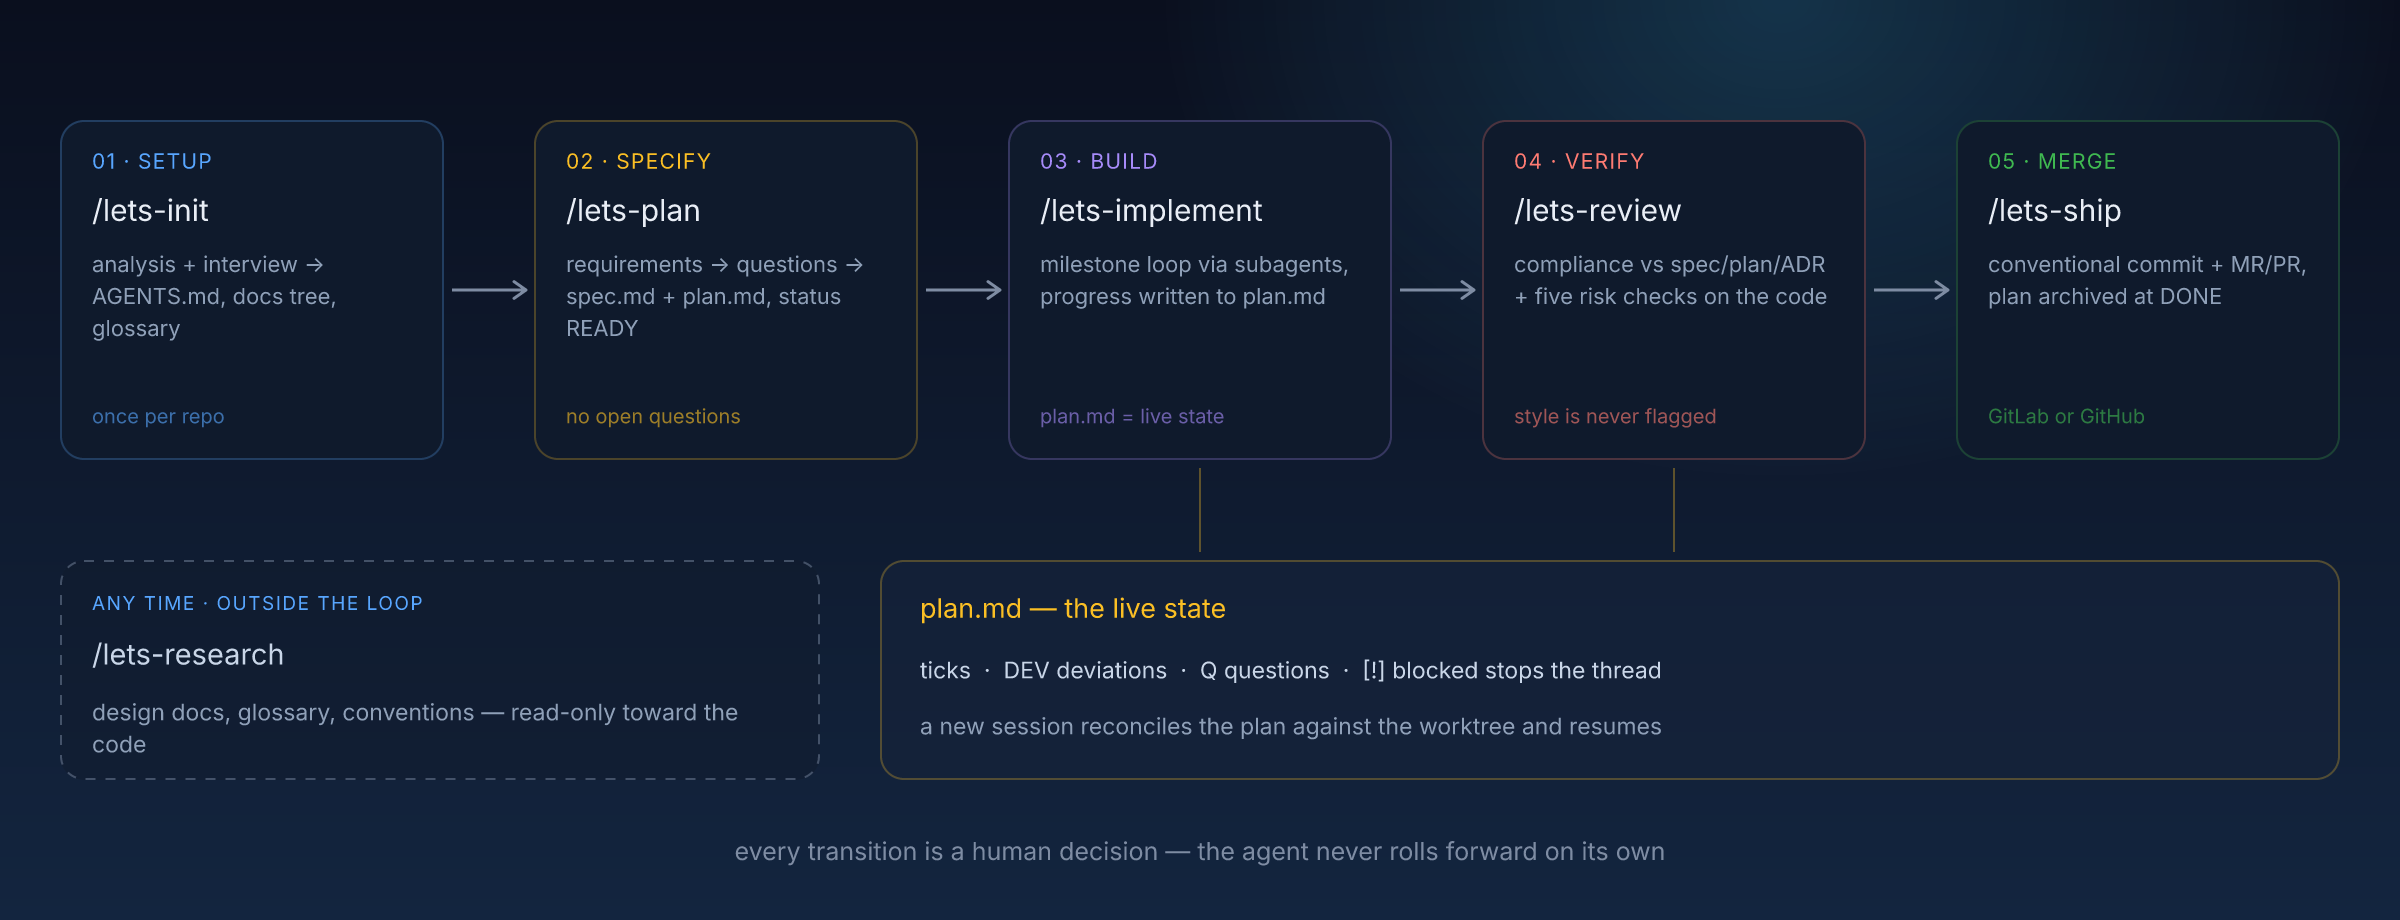
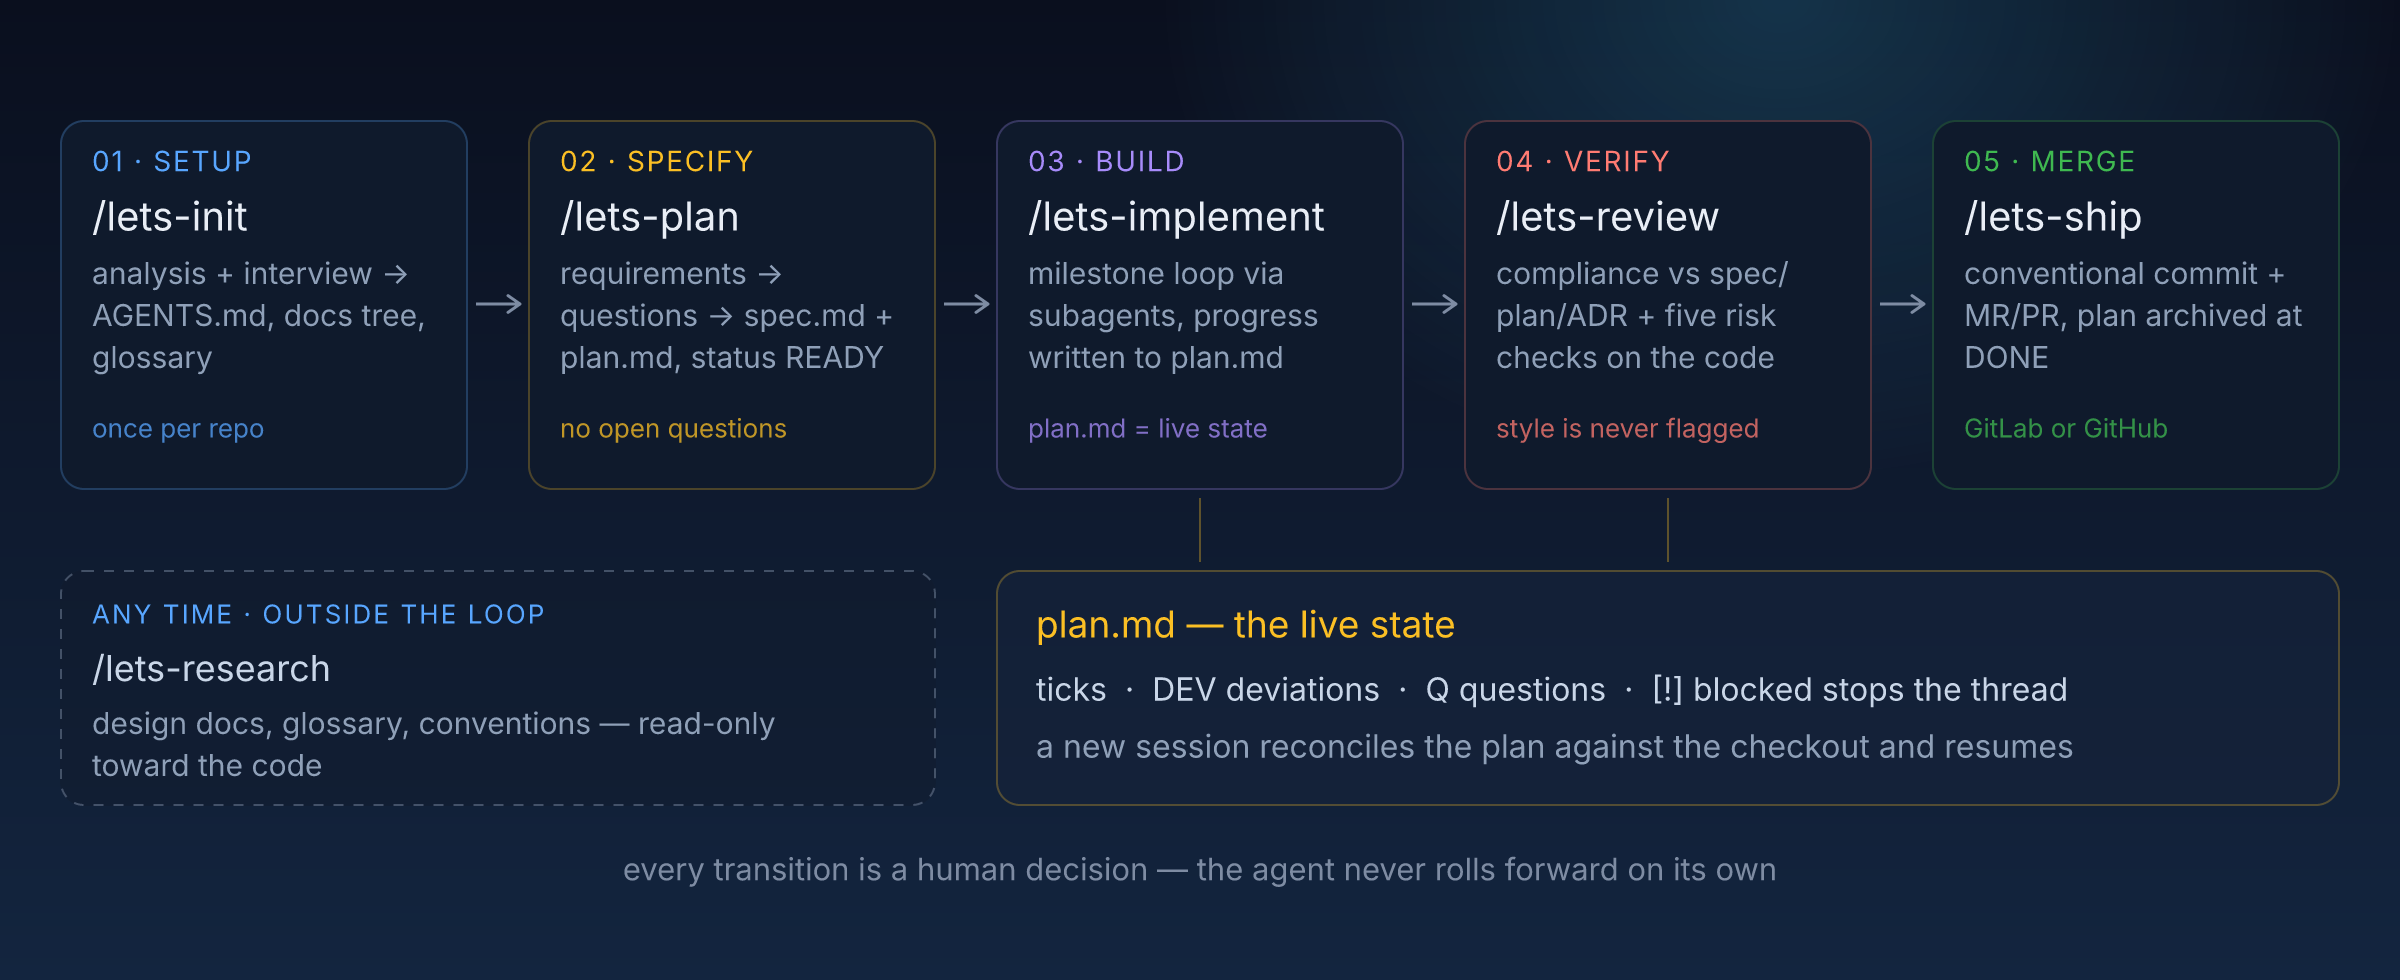
docs: rework the README into usage cards with a worktree section

diff --git a/README.md b/README.md
@@ -10,12 +10,12 @@ Six public skills: init, research, plan, implement, review, ship. Four service s
 
     npx skills add seropaski/lets-build
 
-Then run `/lets-init` once in the target repository. It analyzes the project, interviews you, and creates the AGENTS.md and docs/ tree that every other skill reads. If docs/ is already yours, `/lets-init --docs-dir lets-docs` puts the tree under another folder, and init asks on its own when it finds a docs/ with your files in it; the folder lands in AGENTS.md, so every skill reads it from there. You need git and an agent that supports skills and subagents. Claude Code reads CLAUDE.md rather than AGENTS.md, so init offers a one-line CLAUDE.md that imports it.
+Run `/lets-init` once in the target repository: it analyzes the project, interviews you, and creates the AGENTS.md and docs/ tree every other skill reads. If docs/ is already yours, `/lets-init --docs-dir lets-docs` puts the tree under another folder — init asks on its own when it finds a docs/ with your files in it, and the folder lands in AGENTS.md, so every skill reads it from there. You need git and an agent that supports skills and subagents. An agent that reads CLAUDE.md rather than AGENTS.md gets a one-line CLAUDE.md that imports it.
 
 ## The workflow
 
 <div align="center">
-  <img src="assets/workflow.png" alt="init → plan → implement → review → ship; research runs outside the loop; plan.md is the live state every session reconciles against the worktree" width="100%">
+  <img src="assets/workflow.png" alt="init → plan → implement → review → ship; research runs outside the loop; plan.md is the live state every session reconciles against the checkout" width="100%">
 </div>
 
 Every transition is a human decision: the agent never rolls from planning into coding, or from coding into committing. plan.md stays the live state — ticks, deviations, blockers — so any session continues where the last one stopped:
@@ -29,67 +29,72 @@ Every transition is a human decision: the agent never rolls from planning into c
 
     AGENTS.md                       how the agent works in this repo
     docs/
-      glossary/                     the domain model: _index.md maps the domains
-                                    and how they connect, one file per domain
-                                    holds its terms, their purpose and relations
-      conventions/                  per-area rules; _index.md says which paths each covers
+      glossary/                     the domain model, one file per domain
+      conventions/                  per-area rules; _index.md maps paths to rules
       design/                       what the system does today, one file per area
-      architecture/adr/             accepted decisions, with their reasons
-      architecture/rfcs/            decisions under discussion
+      architecture/                 ADRs accepted, RFCs under discussion
       plans/active/<id>-<slug>/     spec.md + plan.md of running tasks
       plans/completed/              archived at DONE
 
-The tree is closed: documentation exists only in these places, and only lets-init extends it. Every folder except plans/ has an `_index.md` table of contents, and skills start their lookups there instead of reading every file. The root is `docs` unless init put the tree elsewhere (`--docs-dir lets-docs`, or your answer when `docs` was already taken); AGENTS.md records the folder, and re-running init with a new `--docs-dir` moves the whole tree after your yes.
+The tree is closed: documentation exists only in these places, and only lets-init extends it. Every folder except plans/ keeps an `_index.md` table of contents, and skills start their lookups there. The root is `docs` unless init put the tree elsewhere (`--docs-dir`, or your answer when `docs/` was taken); AGENTS.md records the folder. The glossary and conventions are yours: every entry is proposed with its evidence and written only after you approve the exact text.
 
-The glossary and the conventions are yours. An agent proposes the exact text of every entry or rule, with its evidence, and writes it only after you approve that text. Subagents can't write there at all, and review flags any change that skipped your approval.
+## Two tasks at once
+
+<div align="center">
+  <img src="assets/worktrees.png" alt="One repository, several directories: the busy checkout keeps its plan and branch, each new task gets a worktree of its own, one .git shared" width="100%">
+</div>
+
+One checkout holds one plan. When a second task starts — or a hotfix lands mid-milestone — lets-implement offers a worktree of its own instead of switching branches under uncommitted work. Say yes:
+
+    git fetch origin
+    git worktree add -b fix/pagination ../shop-pagination origin/main
+
+The plan moves into the new directory along with its branch. Open the next session there and resume as usual: plan.md and that worktree's `git status` carry everything the session needs. The first checkout is never touched. A fresh worktree starts with tracked files only, so `.worktreeinclude` lists what to copy in (`.env` and friends), and the project's install runs once before the first session. When lets-ship closes the plan, it offers the removal; the branch survives, and a review fix reopens the worktree with one command (`git worktree add <path> <branch>`).
 
 ## Usage
 
-**Set up.** `/lets-init` analyzes the project — manifests, layering, domain vocabulary from routes, models, and UI sections — then stops and interviews you in small batches: product goals, users, domains and how their terms relate, open gaps. Product answers land verbatim in AGENTS.md's Product context and the README; the glossary and conventions are drafted from the answers and written once you approve the drafts. Existing files update in place; human prose stays untouched.
+**Set up — [`/lets-init`](skills/lets-init/SKILL.md).** Reads the manifests, routes, and models, then interviews you in small batches and writes AGENTS.md, the docs tree, and your product context. Drafts land only after you approve them; re-running updates in place.
 
-**Research.** `/lets-research How does an order's status travel from the API to the UI?` — no code changes, no spec. Every claim is proven by a file path; the answer lands in docs/design/orders.md, and new terms and observed rules come to you as glossary and convention proposals. Forks become RFCs put to you with a recommendation.
+**Understand an area — [`/lets-research`](skills/lets-research/SKILL.md):**
 
-**Plan.**
+    /lets-research How does an order's status travel from the API to the UI?
 
-    > /lets-plan Add a multi-select status filter to the orders page:
+The answer lands in docs/design/ with a file path behind every claim. The same run documents current behavior for the team, proposes glossary and convention entries for your approval, and raises an RFC when the code and the docs disagree. Code is never changed, and no spec or plan is written.
+
+**Plan a task — [`/lets-plan`](skills/lets-plan/SKILL.md):**
+
+    /lets-plan Add a multi-select status filter to the orders page:
       1. Filter by several statuses at once
       2. Filter state survives a reload (URL)
       3. A reset button clears the filter
 
-Numbered items become tracked requirements. The agent explores prior plans, reusable components, and ADRs — then asks everything the request does not state, in small batches, each question with options and a recommendation. No plan reaches READY with an open question. An architectural fork becomes an RFC; you decide; an ADR records it.
+Numbered items become tracked requirements. The agent explores prior plans, reusable components, and ADRs, then asks everything the request doesn't state — in small batches, with options and a recommendation. No plan reaches READY with an open question; architectural forks become RFCs you decide.
 
-**Implement.** `/lets-implement orders-status-filter` — subagents write, validate, and review each milestone; the orchestrator never edits code. Progress, deviations (DEV), and new questions (Q) land in plan.md after every milestone. A blocked question flips its milestone to [!] and stops that thread while others continue. Re-run in any session: the plan is reconciled against the worktree and work resumes. A plan can run in a worktree of its own: implement offers `../<repo>-<slug>` on the plan's branch when the checkout is busy, and ship offers to remove it once the plan closes. Ends IN_REVIEW.
+**Run the plan — [`/lets-implement`](skills/lets-implement/SKILL.md).** Subagents write, validate, and review each milestone; the orchestrator never edits code. Progress, deviations (DEV), and new questions (Q) land in plan.md after every milestone, so any session picks the task up. Ends IN_REVIEW; a busy checkout gets a worktree first.
 
-**Review.** `/lets-review` reviews uncommitted changes; `staged`, `branch main`, or a PR number work too. Compliance comes first (spec, plan, ADRs, design docs), then five risk checks on the code: security, correctness, data and rollout, performance, and leftovers (copied or orphaned logic). Big changes get a read-only subagent per check. Style is never flagged. If the branch has no plan, the review says so up front and checks only the code. The full review comes first; then it asks which findings to fix and how (fix here, investigate first, or rework through lets-implement), and nothing changes until you answer.
+**Check the change — [`/lets-review`](skills/lets-review/SKILL.md):**
 
-**Ship.** `/lets-ship` commits and opens the MR/PR; `commit only` stops after the commit. The message is conventional, secrets are checked before anything is staged, hooks run, and the forge is detected from the remote. Once the MR exists, it offers to close the plan: status DONE, the MR link in Result, the plan dir moved to completed/, all in a second commit on the same branch.
+    /lets-review branch main
+
+Reviews uncommitted changes by default; `staged`, a branch, a commit, or a PR or MR number works too. Compliance comes first — spec, plan, ADRs, design docs — then five risk checks on the code: security, correctness, data and rollout, performance, leftovers. It reports and changes nothing until you pick what to fix; style is never flagged. A branch without a plan is reviewed as code only.
+
+**Ship — [`/lets-ship`](skills/lets-ship/SKILL.md).** Conventional message, secrets checked before anything is staged, hooks run, the forge detected from the remote. `commit only` stops after the commit. Once the MR exists, it offers to close the plan: status DONE, the link, the move to completed/.
 
 ## What this buys you
 
 - **Sessions are disposable.** State lives in plan.md and git, so a new session, agent, or human picks it up.
-- **A second task never waits for the first.** Each plan can run in its own worktree (`../<repo>-<slug>` on the plan's branch), so neither task disturbs the other's checkout.
+- **A second task never waits for the first.** Each plan runs in a worktree of its own, so neither task disturbs the other's checkout.
 - **Memory survives turnover.** ADRs keep the why, design/ the current state, the glossary the vocabulary, RFCs the rejected paths.
 
 ## Skills reference
 
-### Public — invoked by the user
-
-| Skill | Invoke when | Job |
-|---|---|---|
-| [lets-init](skills/lets-init/SKILL.md) | once per project | project analysis, blocking interview, AGENTS.md + README + docs tree, glossary |
-| [lets-research](skills/lets-research/SKILL.md) | deliverable is understanding or docs | design docs, glossary, conventions — read-only toward code |
-| [lets-plan](skills/lets-plan/SKILL.md) | before any non-trivial change | requirements → discovery → questions → spec.md + plan.md, READY |
-| [lets-implement](skills/lets-implement/SKILL.md) | plan is READY | milestone loop via subagents, plan.md as live state |
-| [lets-review](skills/lets-review/SKILL.md) | before merge | compliance + five risk checks on the code |
-| [lets-ship](skills/lets-ship/SKILL.md) | closing or checkpointing | commit + MR/PR; closes the plan |
-
-### Service — loaded by other skills
+The six public skills are documented above. The service skills they load:
 
 | Skill | Loaded by | Job |
 |---|---|---|
 | [lets-decisions](skills/lets-decisions/SKILL.md) | plan, research, implement, review | decision levels, question ladder, RFC/ADR lifecycle, epoch naming |
-| [lets-doc-standards](skills/lets-doc-standards/SKILL.md) | every skill | closed docs tree with _index.md files, source-of-truth map, domain-model and convention formats, approval rule, trust rule, discovery protocol |
-| [lets-orchestration](skills/lets-orchestration/SKILL.md) | plan, research, implement, review | subagent roles (explorer included), dispatch prompts, validate/review cycle |
+| [lets-doc-standards](skills/lets-doc-standards/SKILL.md) | every skill | closed docs tree, source-of-truth map, approval rule, discovery protocol |
+| [lets-orchestration](skills/lets-orchestration/SKILL.md) | plan, research, implement, review | subagent roles, dispatch prompts, validate/review cycle |
 | [lets-skill-matrix](skills/lets-skill-matrix/SKILL.md) | plan, research, implement | capability areas → installed domain skills |
 
 ## How it compares
@@ -104,7 +109,7 @@ Numbered items become tracked requirements. The agent explores prior plans, reus
 | Execution | one agent over a checklist | one agent over a checklist | explorer / implementer / validator / reviewer subagents, validation per dispatch |
 | Review | schema validation, before code | `/analyze`, before code | after code: compliance vs spec/plan/ADR, then five risk checks on the code |
 | Shipping | not covered | not covered | commit + MR/PR, GitLab or GitHub |
-| Session resume | checkboxes | checkboxes | status machine, Progress, DEV/Q records, worktree reconciliation |
+| Session resume | checkboxes | checkboxes | status machine, Progress, DEV/Q records, checkout reconciliation |
 | Runtime deps | npm CLI | `specify` CLI + scripts | none — plain markdown |
 
 **Where this set is stronger:**
@@ -112,5 +117,4 @@ Numbered items become tracked requirements. The agent explores prior plans, reus
 - **Nothing is guessed.** Unstated points are asked — batched, with a recommendation — and the answers live verbatim in the plan. Both toolkits let the agent fill the gaps silently.
 - **Different eyes.** The validator and the reviewer are separate subagents; in both toolkits the author ticks its own checklist.
 - **Review after code, against intent.** `/analyze` runs before code exists, and nothing verifies afterwards that the diff kept its promise. Here compliance is checked first, and an undocumented deviation blocks approval.
-- **The loop runs to merge.** Ship commits, opens the MR/PR, and archives the plan.
-- **Zero toolchain.** Plain markdown: readable in twenty minutes, easy to adjust, nothing breaks when you switch agents.
+- **The loop runs to merge, on zero toolchain.** Ship commits, opens the MR/PR, and archives the plan — all in plain markdown, nothing to reinstall when you switch agents.
